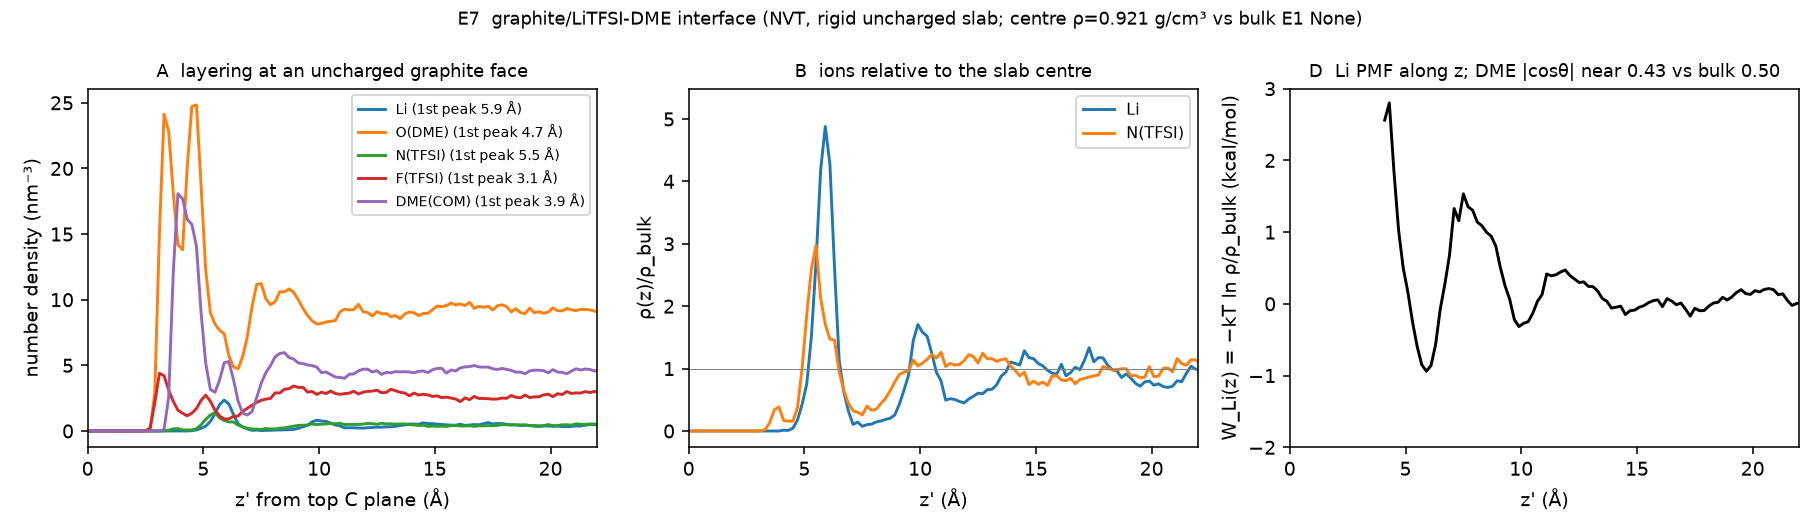
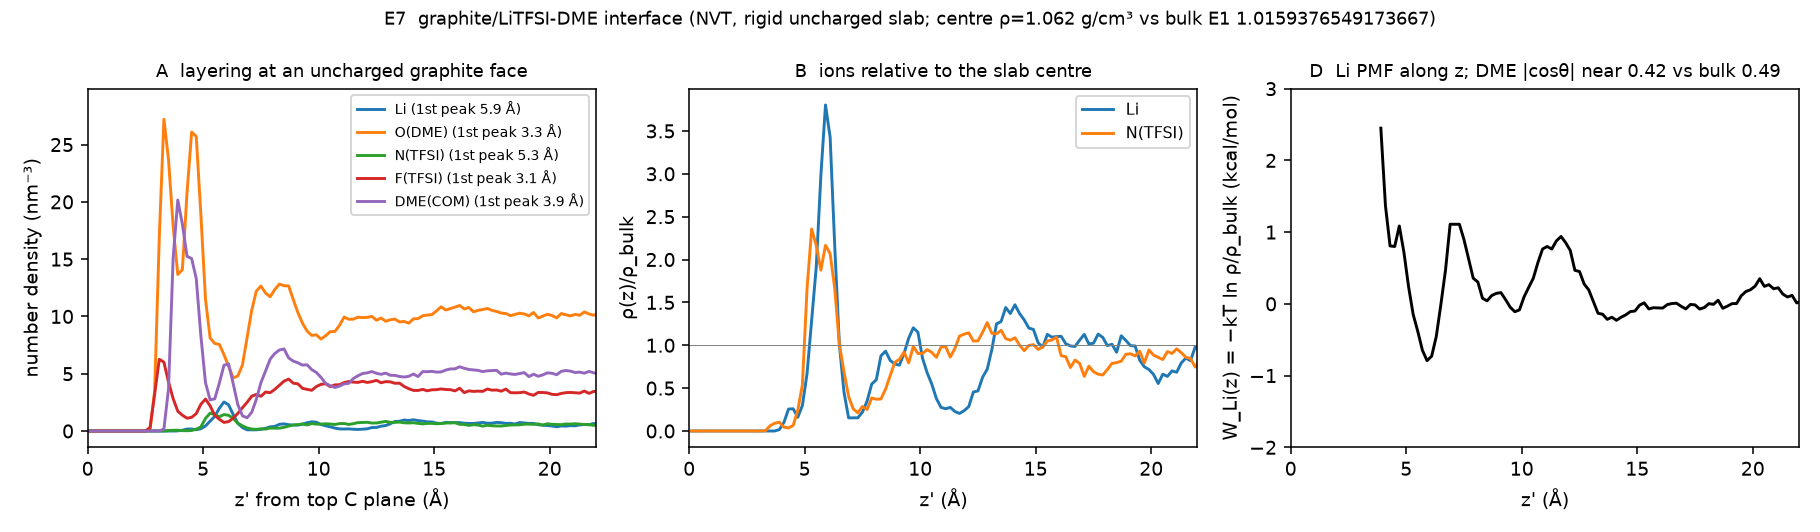
Calibrate the interface liquid fill against the E1 bulk density
Claude-Session: https://claude.ai/code/session_01TPqN6aRH5ozdSoDnQ4tZ41

diff --git a/electrolyte_pipeline/e7_interface.py b/electrolyte_pipeline/e7_interface.py
@@ -33,8 +33,9 @@ D_LAYER = 3.35
 GAP = 3.0                         # Å between top carbon plane and packmol region
 LIQ_Z = 40.0                      # Å of liquid
 C_SIGMA_NM, C_EPS_KJ = 0.355, 0.07 * 4.184
-COUNTS = {"DME": 258, "Li": 26, "TFSI": 26}   # r10 composition; a first run with 236/24/24 gave a centre
-                                              # density 9 % below the E1 bulk value, so the fill was raised
+COUNTS = {"DME": 251, "Li": 25, "TFSI": 25}   # r10 composition. Fill calibrated against the E1 bulk density:
+                                              # 236/24/24 -> centre 0.921 g/cm3 (-9 %), 258/26/26 -> 1.062 (+4.5 %),
+                                              # interpolated to 251/25/25 for the production run.
 
 
 def graphite_xyz():
